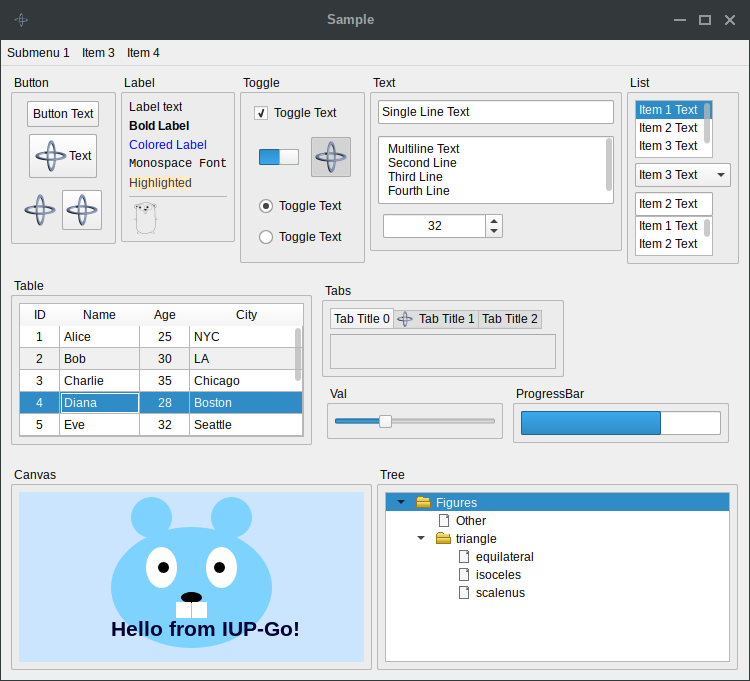
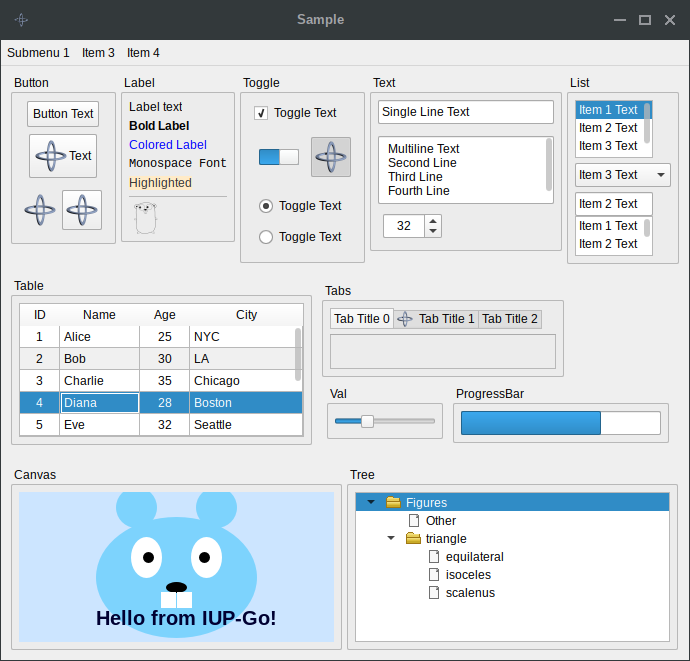
qml: Fix the Table, Spin and Val natural sizes

diff --git a/iup/external/src/qml/iupqml_text.cpp b/iup/external/src/qml/iupqml_text.cpp
@@ -194,26 +194,29 @@ static void qmlTextEnsureVisible(Ihandle* ih, int pos)
  * Size
  ****************************************************************************/
 
+static QQuickItem* qmlTextSpinTemplate()
+{
+  return iupqmlTemplateItem(IUPQML_IMPORTS "SpinBox { from: 0; to: 100; editable: true }");
+}
+
 extern "C" IUP_SDK_API void iupdrvTextAddSpin(Ihandle* ih, int* w, int h)
 {
-  QQuickItem* spin = iupqmlTemplateItem(IUPQML_IMPORTS "SpinBox { from: 0; to: 100; editable: true }");
-  int spin_min_width = 130;
+  QQuickItem* spin = qmlTextSpinTemplate();
   (void)h;
   (void)ih;
 
   if (spin)
-  {
-    spin_min_width = static_cast<int>(spin->implicitWidth());
-    (*w) += static_cast<int>(iupqmlGetProperty(spin, "up.implicitIndicatorWidth").toDouble() +
-                  iupqmlGetProperty(spin, "down.implicitIndicatorWidth").toDouble());
-  }
-
-  if (*w < spin_min_width)
-    *w = spin_min_width;
+    (*w) += static_cast<int>(spin->property("leftPadding").toDouble() + spin->property("rightPadding").toDouble() -
+                             2 * spin->property("padding").toDouble());
+  else
+    (*w) += 16;
 }
 
 static QQuickItem* qmlTextTemplate(Ihandle* ih)
 {
+  if (iupAttribGetBoolean(ih, "SPIN"))
+    return qmlTextSpinTemplate();
+
   if (!iupAttribGetBoolean(ih, "_IUP_MULTILINE_TEXT"))
     return iupqmlTemplateItem(IUPQML_IMPORTS "TextField { text: \"X\" }");
 
@@ -227,7 +230,10 @@ extern "C" IUP_SDK_API void iupdrvTextAddBorders(Ihandle* ih, int* w, int* h)
 
   if (item)
   {
-    (*w) += static_cast<int>(item->property("leftPadding").toDouble() + item->property("rightPadding").toDouble());
+    if (iupAttribGetBoolean(ih, "SPIN"))
+      (*w) += static_cast<int>(2 * item->property("padding").toDouble());
+    else
+      (*w) += static_cast<int>(item->property("leftPadding").toDouble() + item->property("rightPadding").toDouble());
     (*h) += static_cast<int>(item->property("topPadding").toDouble() + item->property("bottomPadding").toDouble());
 
     int min_h = static_cast<int>(item->property("implicitBackgroundHeight").toDouble());

diff --git a/iup/external/src/qml/iupqml_val.cpp b/iup/external/src/qml/iupqml_val.cpp
@@ -26,23 +26,15 @@ extern "C" IUP_SDK_API void iupdrvValGetMinSize(Ihandle* ih, int* w, int* h)
 {
   QQuickItem* horiz = iupqmlTemplateItem(IUPQML_IMPORTS "Slider { orientation: Qt.Horizontal }");
   QQuickItem* vert = iupqmlTemplateItem(IUPQML_IMPORTS "Slider { orientation: Qt.Vertical }");
-  int horiz_min_w = 20, horiz_min_h = 20, vert_min_w = 20, vert_min_h = 20;
+  int horiz_min_h = 20, vert_min_w = 20;
 
   if (horiz)
-  {
-    horiz_min_w = static_cast<int>(horiz->implicitWidth());
     horiz_min_h = static_cast<int>(horiz->implicitHeight());
-  }
   if (vert)
-  {
     vert_min_w = static_cast<int>(vert->implicitWidth());
-    vert_min_h = static_cast<int>(vert->implicitHeight());
-  }
 
-  if (horiz_min_w < 20) horiz_min_w = 20;
   if (horiz_min_h < 20) horiz_min_h = 20;
   if (vert_min_w < 20) vert_min_w = 20;
-  if (vert_min_h < 20) vert_min_h = 20;
 
   int ticks_room = 0;
   if (ih->data->show_ticks > 1)
@@ -50,13 +42,13 @@ extern "C" IUP_SDK_API void iupdrvValGetMinSize(Ihandle* ih, int* w, int* h)
 
   if (ih->data->orientation == IVAL_HORIZONTAL)
   {
-    *w = horiz_min_w;
+    *w = 100;
     *h = horiz_min_h + ticks_room;
   }
   else
   {
     *w = vert_min_w + ticks_room;
-    *h = vert_min_h;
+    *h = 100;
   }
 }
 

diff --git a/iup/external/src/qml/iupqml_table.cpp b/iup/external/src/qml/iupqml_table.cpp
@@ -1241,7 +1241,7 @@ static const char* qmlTableQml =
   "  signal iupRowDropped(int row, point pos)\n"
   "  function iupScrollTo(row, column) { view.forceLayout(); view.positionViewAtCell(Qt.point(column, row), TableView.Contain) }\n"
   "  function iupScrollVisible() { return (view.ScrollBar.horizontal.visible ? 1 : 0) + (view.ScrollBar.vertical.visible ? 2 : 0) }\n"
-  "  function iupHeaderHeight() { return header.height }\n"
+  "  function iupHeaderHeight() { return header.leftColumn >= 0 ? header.height : 0 }\n"
   "  Rectangle {\n"
   "    id: back\n"
   "    anchors.fill: parent\n"

diff --git a/docs/elem/iup_val.md b/docs/elem/iup_val.md
@@ -36,9 +36,8 @@ When changed the display will not be updated until VALUE is set.
 The increment size is "pagestep*(max-min)", so it must be 0<pagestep<1. Default is "0.1".
 Not supported in Android.
 
-[RASTERSIZE](../attrib/iup_rastersize.md) (non-inheritable): The initial size is the native widget's natural size on both axes.
-If there are ticks then they are added to the natural size on the minor axis.
-Set to NULL to allow the automatic layout to use smaller values.
+[SIZE](../attrib/iup_size.md) (non-inheritable): The natural size is 100 pixels along the orientation (84 in Qt, 80 in Haiku and WebAssembly, 180 in iOS, 200 in Android) and the native thickness across it.
+In Win32, Motif, Cocoa, FLTK, Qt, QML and iOS the ticks are added to the thickness.
 
 **SHOWTICKS**: The number of tick marks along the valuator trail.
 Minimum value is "2". Default is "0", in this case the ticks are not shown.
@@ -64,7 +63,7 @@ Default: "0.0".
 >
 > ------------------------------------------------------------------------
 
-[ACTIVE](../attrib/iup_active.md), [EXPAND](../attrib/iup_expand.md), [FONT](../attrib/iup_font.md), [SCREENPOSITION](../attrib/iup_screenposition.md), [POSITION](../attrib/iup_position.md), [MINSIZE](../attrib/iup_minsize.md), [MAXSIZE](../attrib/iup_maxsize.md), [WID](../attrib/iup_wid.md), [TIP](../attrib/iup_tip.md), [SIZE](../attrib/iup_size.md), [ZORDER](../attrib/iup_zorder.md), [VISIBLE](../attrib/iup_visible.md), [THEME](../attrib/iup_theme.md): also accepted. 
+[ACTIVE](../attrib/iup_active.md), [EXPAND](../attrib/iup_expand.md), [FONT](../attrib/iup_font.md), [SCREENPOSITION](../attrib/iup_screenposition.md), [POSITION](../attrib/iup_position.md), [MINSIZE](../attrib/iup_minsize.md), [MAXSIZE](../attrib/iup_maxsize.md), [WID](../attrib/iup_wid.md), [TIP](../attrib/iup_tip.md), [RASTERSIZE](../attrib/iup_rastersize.md), [ZORDER](../attrib/iup_zorder.md), [VISIBLE](../attrib/iup_visible.md), [THEME](../attrib/iup_theme.md): also accepted. 
 
 ### Callbacks
 
